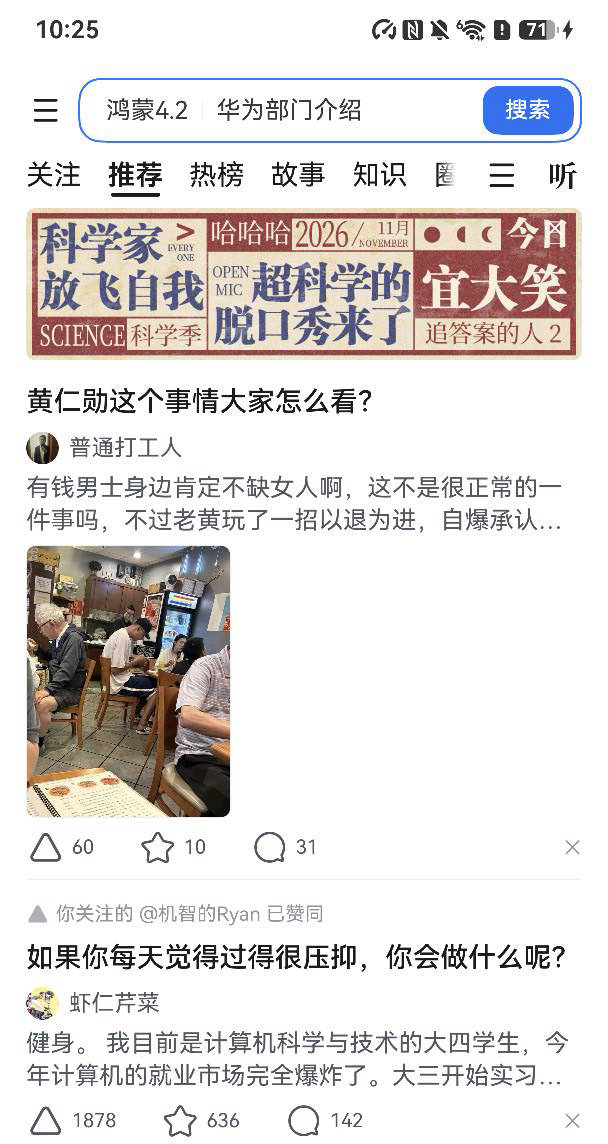
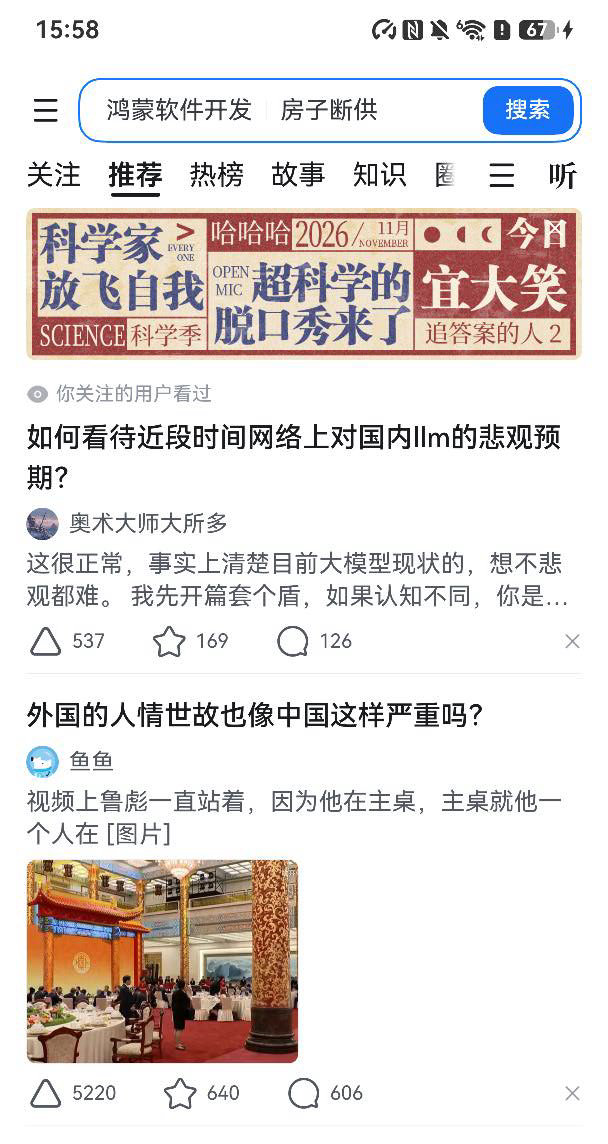
fix(live): dispose a cast whose stream ended
`dispose()` is what kills the device-side daemon and removes the port
forward. When a stream ended or threw, the server dropped its reference
and retried, but never disposed the dead cast, so every stream loss left
an orphaned cast daemon on the phone.

The orphans compete for the encoder: successive ten-minute acceptance
runs decayed from 17.9 fps to 13.65 and then 13.06 fps, and the pinch
diff fell from 75.9 to 9.5 against a threshold of 8 — read as device
flakiness until the daemons were attributed to dead host processes. A
clean close never leaked, which is why short runs looked fine.

diff --git a/test/unit/live-server.test.ts b/test/unit/live-server.test.ts
@@ -563,6 +563,48 @@ describe("LiveServer", () => {
     await until(() => h.cast.disposed, 3000);
   });
 
+  it("disposes a cast whose stream ended before it opens the replacement", async () => {
+    // `dispose()` is what kills the device daemon. When the stream ended or
+    // errored, the server dropped its reference and retried — but never
+    // disposed the dead cast, so every stream loss left an orphaned cast
+    // daemon on the phone. Each orphan competes for the encoder, and a
+    // ten-minute acceptance run dropped from ~18 fps to 13 fps because of the
+    // ones earlier runs had left behind.
+    let made = 0;
+    const casts: FakeCast[] = [];
+    /** A cast whose stream returns on its own, as a dying daemon's would. */
+    class EndingCast extends FakeCast {
+      async *stream(): AsyncIterable<H264Chunk> {
+        yield keyframe();
+        // Ends without dispose(): the server must collect it.
+      }
+    }
+    const server = await LiveServer.start({
+      port: 0,
+      host: "127.0.0.1",
+      graceMs: 200,
+      layoutMs: 1000,
+      source: {
+        async createCast() {
+          const cast = made === 0 ? new EndingCast() : new FakeCast();
+          casts.push(cast);
+          made++;
+          return cast;
+        },
+        async readScreen() {
+          return fakeScreen();
+        },
+      },
+    });
+    running.push(server);
+    const c = await connect(server.port);
+    await until(() => made === 2, 8000);
+    // The server, not this test, must have handed the ended cast to dispose().
+    expect(casts[0]!.disposed).toBe(true);
+    expect(casts[1]!.disposed).toBe(false);
+    c.close();
+  });
+
   it("reports its state in every hello", async () => {
     const h = await start();
     const c = await connect(h.port);

diff --git a/src/live/server.ts b/src/live/server.ts
@@ -1006,6 +1006,13 @@ export class LiveServer {
     } finally {
       this.startingCast = false;
       if (this.cast === cast) this.cast = null;
+      // `dispose()` is what stops the device-side daemon and removes the port
+      // forward. A stream that ended or threw leaves the client unusable, and
+      // the retry opens a fresh one; without this, every loss leaves an
+      // orphaned cast daemon on the phone, and each one competes for the
+      // encoder (measured: ten-minute runs decayed from ~18 fps to 13 fps
+      // after a few had accumulated).
+      if (cast) await cast.dispose().catch(() => undefined);
     }
   }
 

diff --git a/docs/acceptance/live/report.md b/docs/acceptance/live/report.md
@@ -3,30 +3,28 @@
 - 设备：dev-6c585f5b（BRA-AL00，BRA-AL00 7.0.0.111(SP10C00E111R4P3)）
 - 屏幕：1216×2688
 - 应用：知乎 com.zhihu.hmos/PhoneAbility
-- 代码：68134b4
-- 开始：2026-11-17T02:25:11.055Z
-- 结果：**10/10 PASS**
-- 本次注入延迟：p50 291.8 ms · p95 1443.3 ms · n=200
+- 代码：b3201e5+dirty
+- 开始：2026-11-17T07:58:26.691Z
+- 结果：**2/2 PASS**（另有 8 项未运行：`--only` 过滤，本次不是完整验收）
 
 | 场景 | 结果 | 耗时 (ms) | 说明 | 证据 |
 |---|---|---|---|---|
-| readonly guard | ✅ PASS | 3840 | 未接管时注入被忽略：仍在信息流，未获得控制权 | docs/acceptance/live/screenshots/01-readonly.jpg |
-| takeover | ✅ PASS | 68 | 冷接管 37 ms；第二个页面被拒（busy by c1） | — |
-| tap | ✅ PASS | 7879 | 点击「知识」后画面变化；p50 3.4 ms · p95 16.3 ms · n=2 | docs/acceptance/live/demo/1-feed.jpg<br>docs/acceptance/live/screenshots/02-tap.jpg |
-| long press | ✅ PASS | 9241 | 长按搜索框弹出系统输入助手（自动填充 / 拍摄输入 / 小艺帮写） | docs/acceptance/live/screenshots/03-long-press.jpg |
-| scroll | ✅ PASS | 4269 | 在 608,1467 → 608,606 竖划后可见内容变化 | docs/acceptance/live/screenshots/04-scroll.jpg |
-| keyboard | ✅ PASS | 18875 | 输入「鸿蒙」并回车后结果页出现该词；键盘走写通道 | docs/acceptance/live/screenshots/06-keyboard.jpg<br>docs/acceptance/live/demo/3-search.jpg |
-| browser keyboard | ✅ PASS | 14969 | 真实页面：英文 300 ms 空闲落设备（输入框里的文字在空闲后到达设备，设备画面随之变化）；真实页面：拼音组合不上屏（组合期间设备无变化，compositionend 后整词到达） | — |
-| system keys | ✅ PASS | 12068 | 返回键退出搜索页；Home 键切到桌面（com.ohos.sceneboard），再冷启动回知乎 | docs/acceptance/live/screenshots/07-home.jpg |
-| pinch | ✅ PASS | 50894 | 图片查看器内 80→120→160 双指放大；画面差异 78.2（阈值 8） | docs/acceptance/live/screenshots/08-pinch-before.jpg<br>docs/acceptance/live/screenshots/09-pinch-after.jpg<br>docs/acceptance/live/demo/4-image.jpg<br>docs/acceptance/live/demo/5-zoomed.jpg<br>docs/acceptance/live/demo/2-article.jpg |
-| stability | ✅ PASS | 661129 | 基线 17.88 fps（60 s 同样输入）· 长跑 17.01 fps（600 s，1182 次）· 换手 ack 31 ms · p50 291.8 ms · p95 1443.3 ms | — |
+| readonly guard | ✅ PASS | 5526 | 未接管时注入被忽略：点搜索框后仍在信息流，未获得控制权 | docs/acceptance/live/screenshots/01-readonly.jpg |
+| takeover | ✅ PASS | 61 | 冷接管 29 ms；第二个页面被拒（busy by c1） | — |
+| tap | ⏭ SKIP | 0 | 未运行（--only 过滤） | — |
+| long press | ⏭ SKIP | 0 | 未运行（--only 过滤） | — |
+| scroll | ⏭ SKIP | 0 | 未运行（--only 过滤） | — |
+| keyboard | ⏭ SKIP | 0 | 未运行（--only 过滤） | — |
+| browser keyboard | ⏭ SKIP | 0 | 未运行（--only 过滤） | — |
+| system keys | ⏭ SKIP | 0 | 未运行（--only 过滤） | — |
+| pinch | ⏭ SKIP | 0 | 未运行（--only 过滤） | — |
+| stability | ⏭ SKIP | 0 | 未运行（--only 过滤） | — |
 
 ## 真实页面键盘检查
 
 `browser keyboard` 场景用无头 Chrome 打开同一个 live 页面、同一台设备，键盘事件走页面的真实监听器（不是模拟服务器）：
 
-- [x] 真实页面：英文 300 ms 空闲落设备 — 输入框里的文字在空闲后到达设备，设备画面随之变化
-- [x] 真实页面：拼音组合不上屏 — 组合期间设备无变化，compositionend 后整词到达
+- [ ] 未运行：`browser keyboard` 场景被 `--only` 过滤掉了
 
 > 本报告由 `npx tsx scripts/acceptance-live.ts --target <id>` 生成；设备只以 8 位标签出现。
 > 证据截图底部裁去 200 px（登录账号的头像与未读角标）；长按证据只保留输入助手条及其下 24 px（其下是搜索历史，位置随搜索词变化，所以按节点几何裁）。其余保持原始分辨率。
